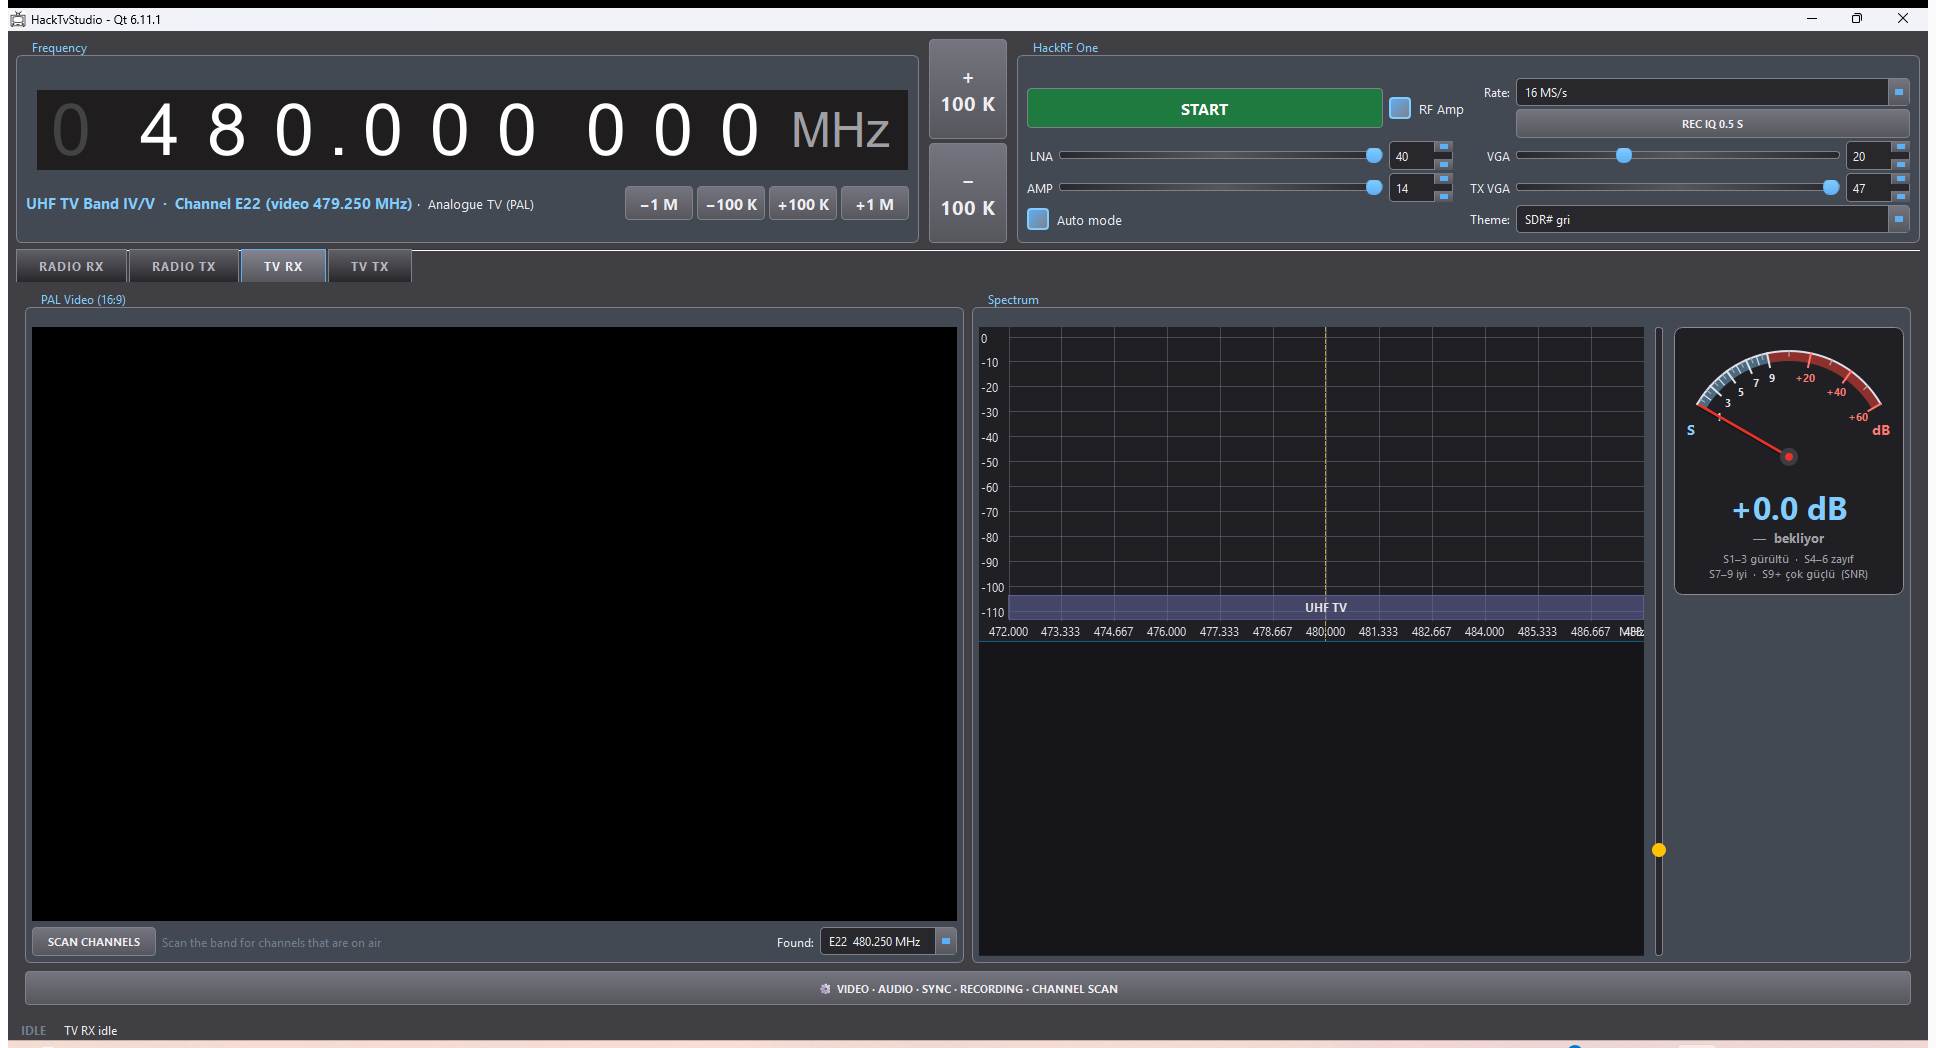
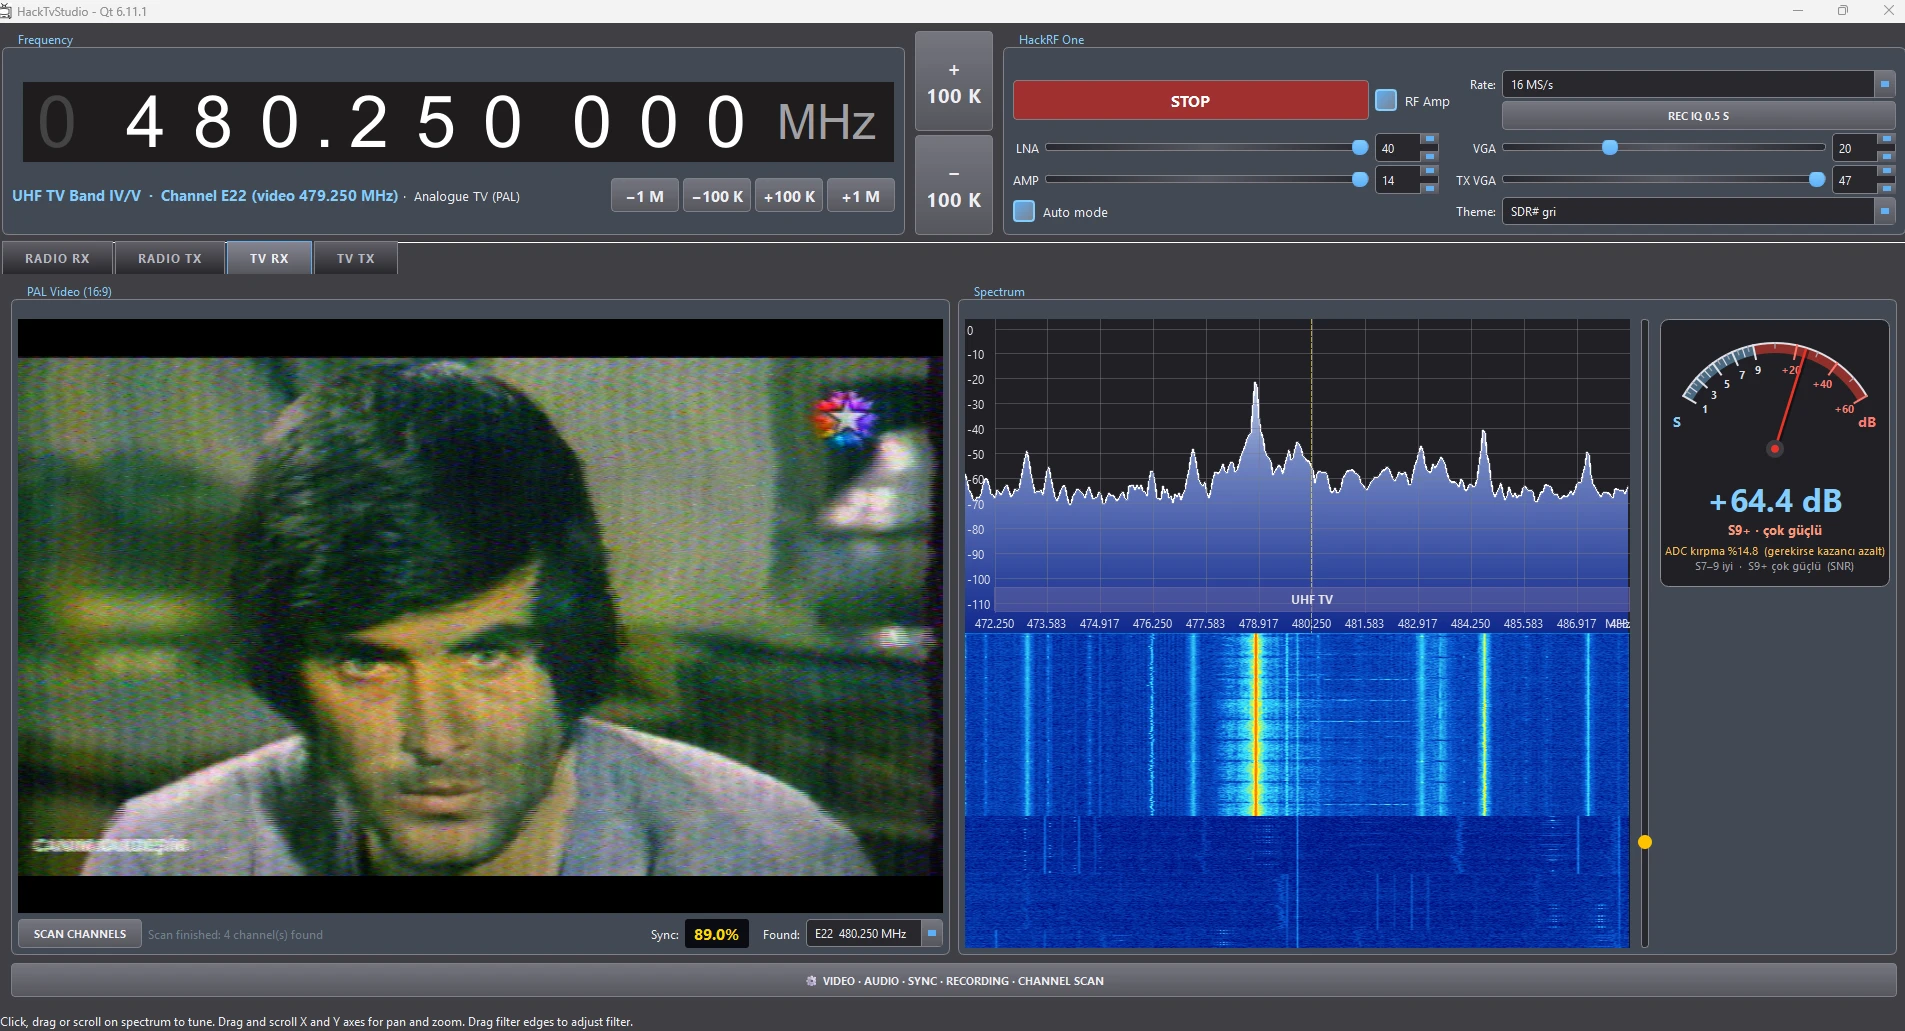
README: desktop screenshots of the compact layout with a live signal
TV RX (picture, sync, found channels), Radio RX and TV TX (test card on
air) replace the old-layout JPEGs.

diff --git a/README.md b/README.md
@@ -10,7 +10,7 @@ Desktop (Full HD) and the **Android version for car head units** (1280×720 in-d
 screens) share one compact layout: spectrum + waterfall on top, one row of big controls per
 tab, a needle S-meter, and the advanced settings tucked into ⚙ dialogs, so nothing scrolls.
 
-![HackTvStudio — TV RX on the desktop](hacktvstudio.jpg)
+![HackTvStudio — TV RX on the desktop: PAL picture, channel scan, S-meter](desktop_tv_rx.png)
 
 Based on [hacktv](https://github.com/fsphil/hacktv) by Philip Heron (TV encoder)
 and the spectrum / frequency widgets of [gqrx](https://github.com/gqrx-sdr/gqrx).
@@ -113,13 +113,13 @@ tab per mode underneath:
   page 100 with the frequency, channel, standard, picture format, sound, source and start time
   (refreshed on every START). The page header carries a live date/time clock.
 
-![HackTvStudio — TV TX test card](hacktvstudio_test.jpg)
+![HackTvStudio — TV TX test card on air](desktop_tv_tx.png)
 
-The desktop now uses the same compact layout as the head unit (designed for 1920×1080):
+The desktop uses the same compact layout as the head unit (designed for 1920×1080):
+
+![Desktop Radio RX](desktop_radio_rx.png)
 
 ![Desktop Radio TX](desktop_radio_tx.png)
-
-![Desktop TV RX](desktop_tv_rx.png)
 
 ### Supported hardware
 
